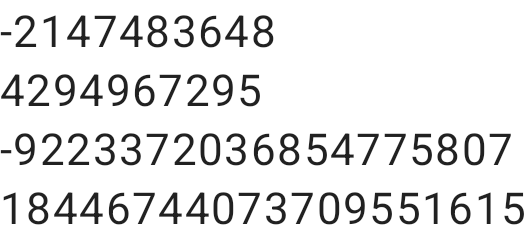
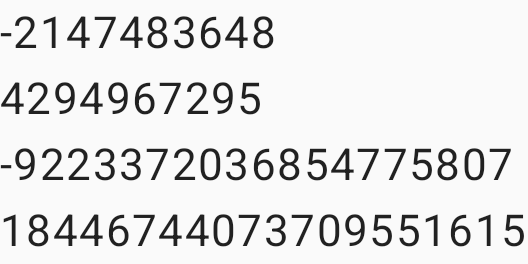
Fix tests broken by Compose update
The new version of Compose creates taller text boxes. This updates
test golden images to adapt to that change.

Bug: 385133714
Test: test code

diff --git a/compose-designer/testSrc/com/android/tools/idea/compose/gradle/renderer/SingleComposePreviewElementRendererTest.kt b/compose-designer/testSrc/com/android/tools/idea/compose/gradle/renderer/SingleComposePreviewElementRendererTest.kt
@@ -33,11 +33,9 @@ import org.junit.Assert.assertEquals
 import org.junit.Assert.assertFalse
 import org.junit.Assert.assertNull
 import org.junit.Assert.assertTrue
-import org.junit.Ignore
 import org.junit.Rule
 import org.junit.Test
 
-@Ignore("b/385133714")
 class SingleComposePreviewElementRendererTest {
   @get:Rule val projectRule = ComposeGradleProjectRule(SIMPLE_COMPOSE_PROJECT_PATH)
 
